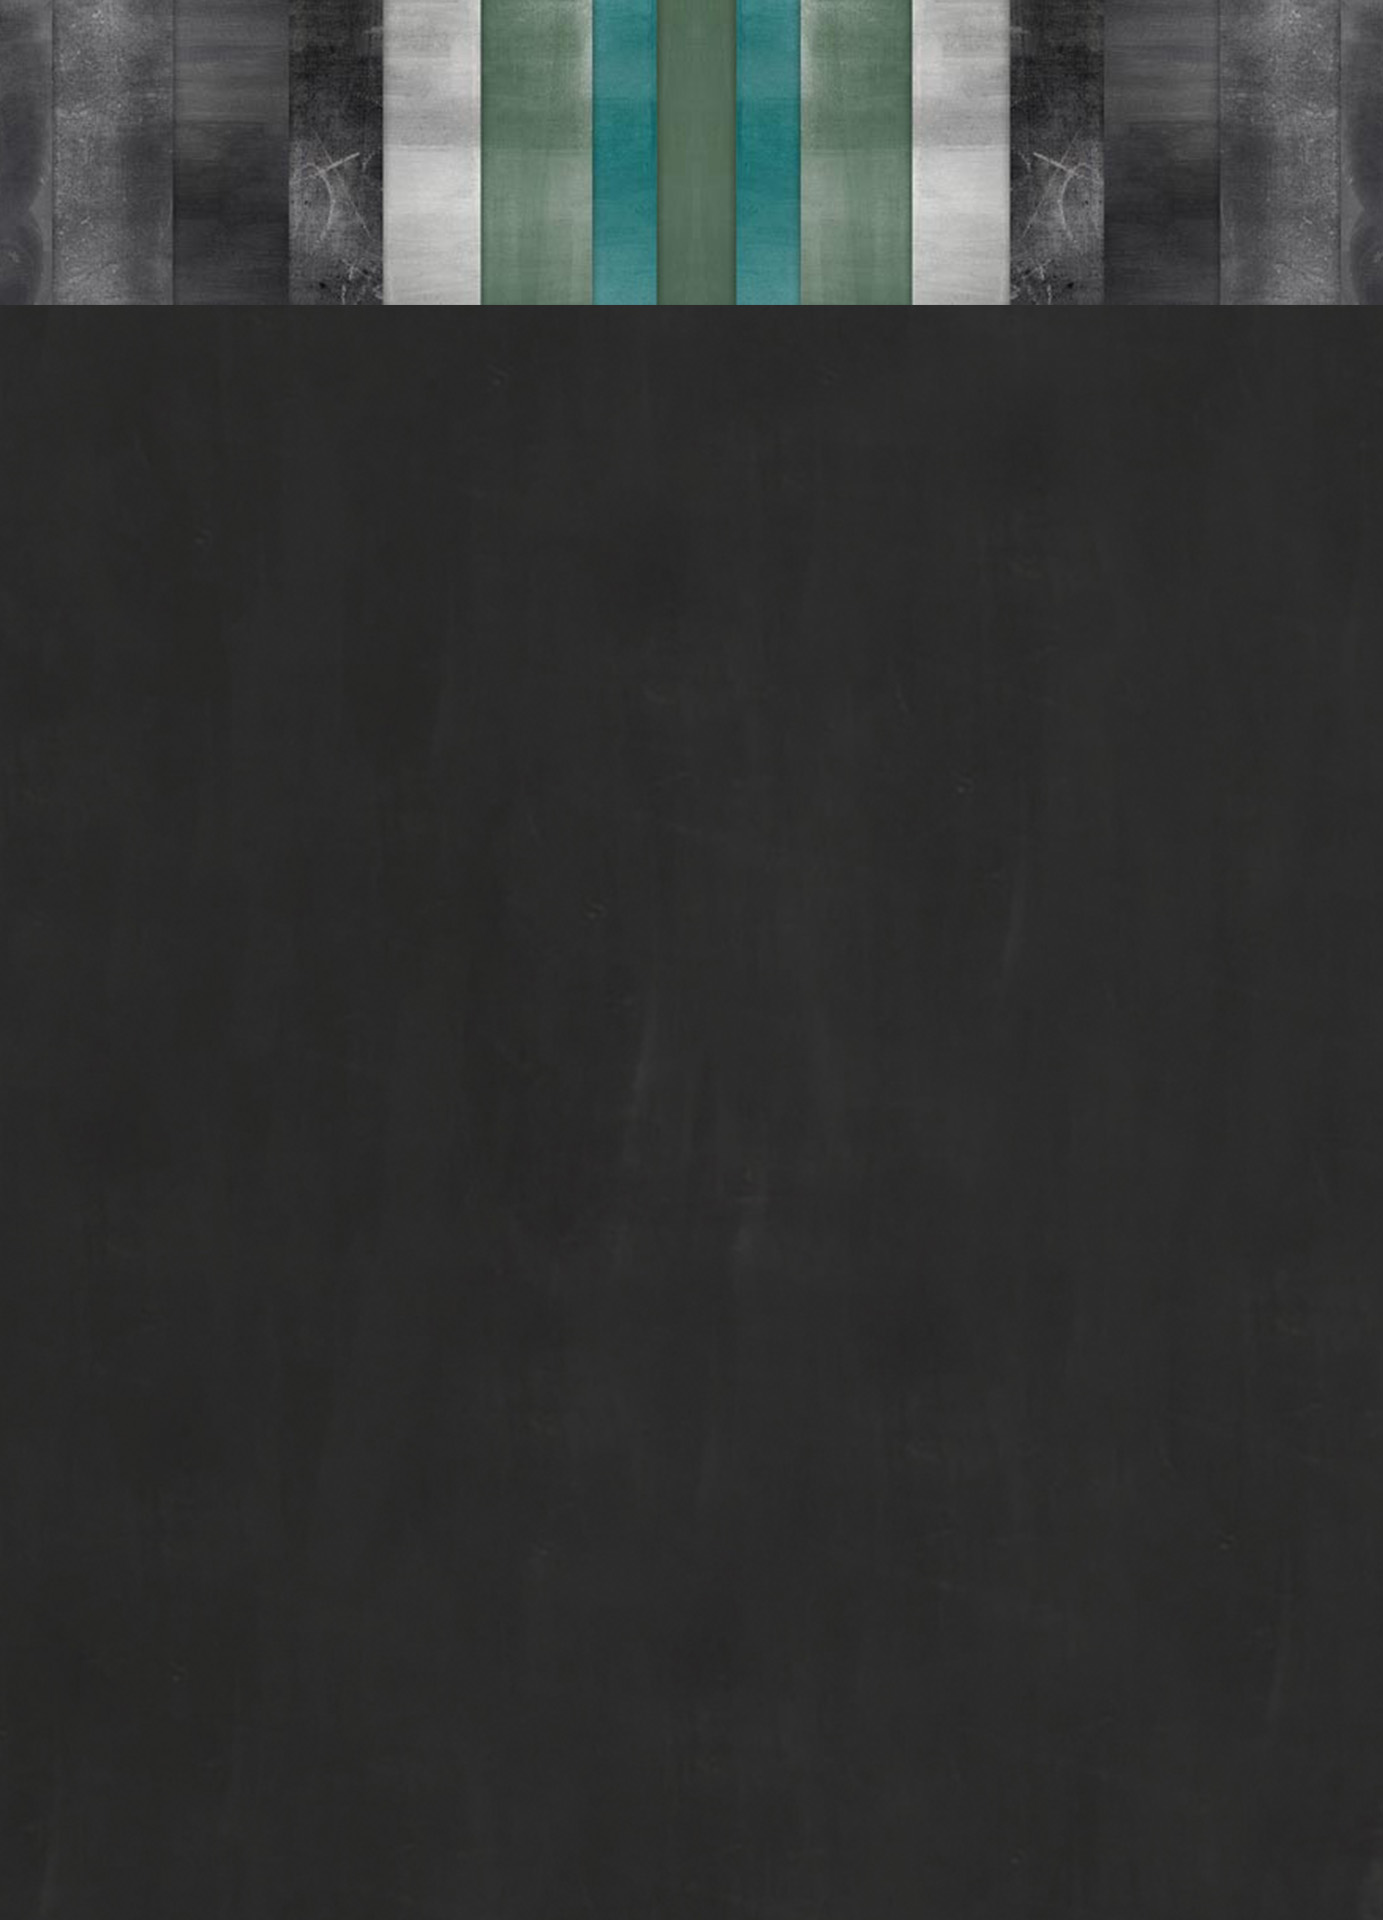
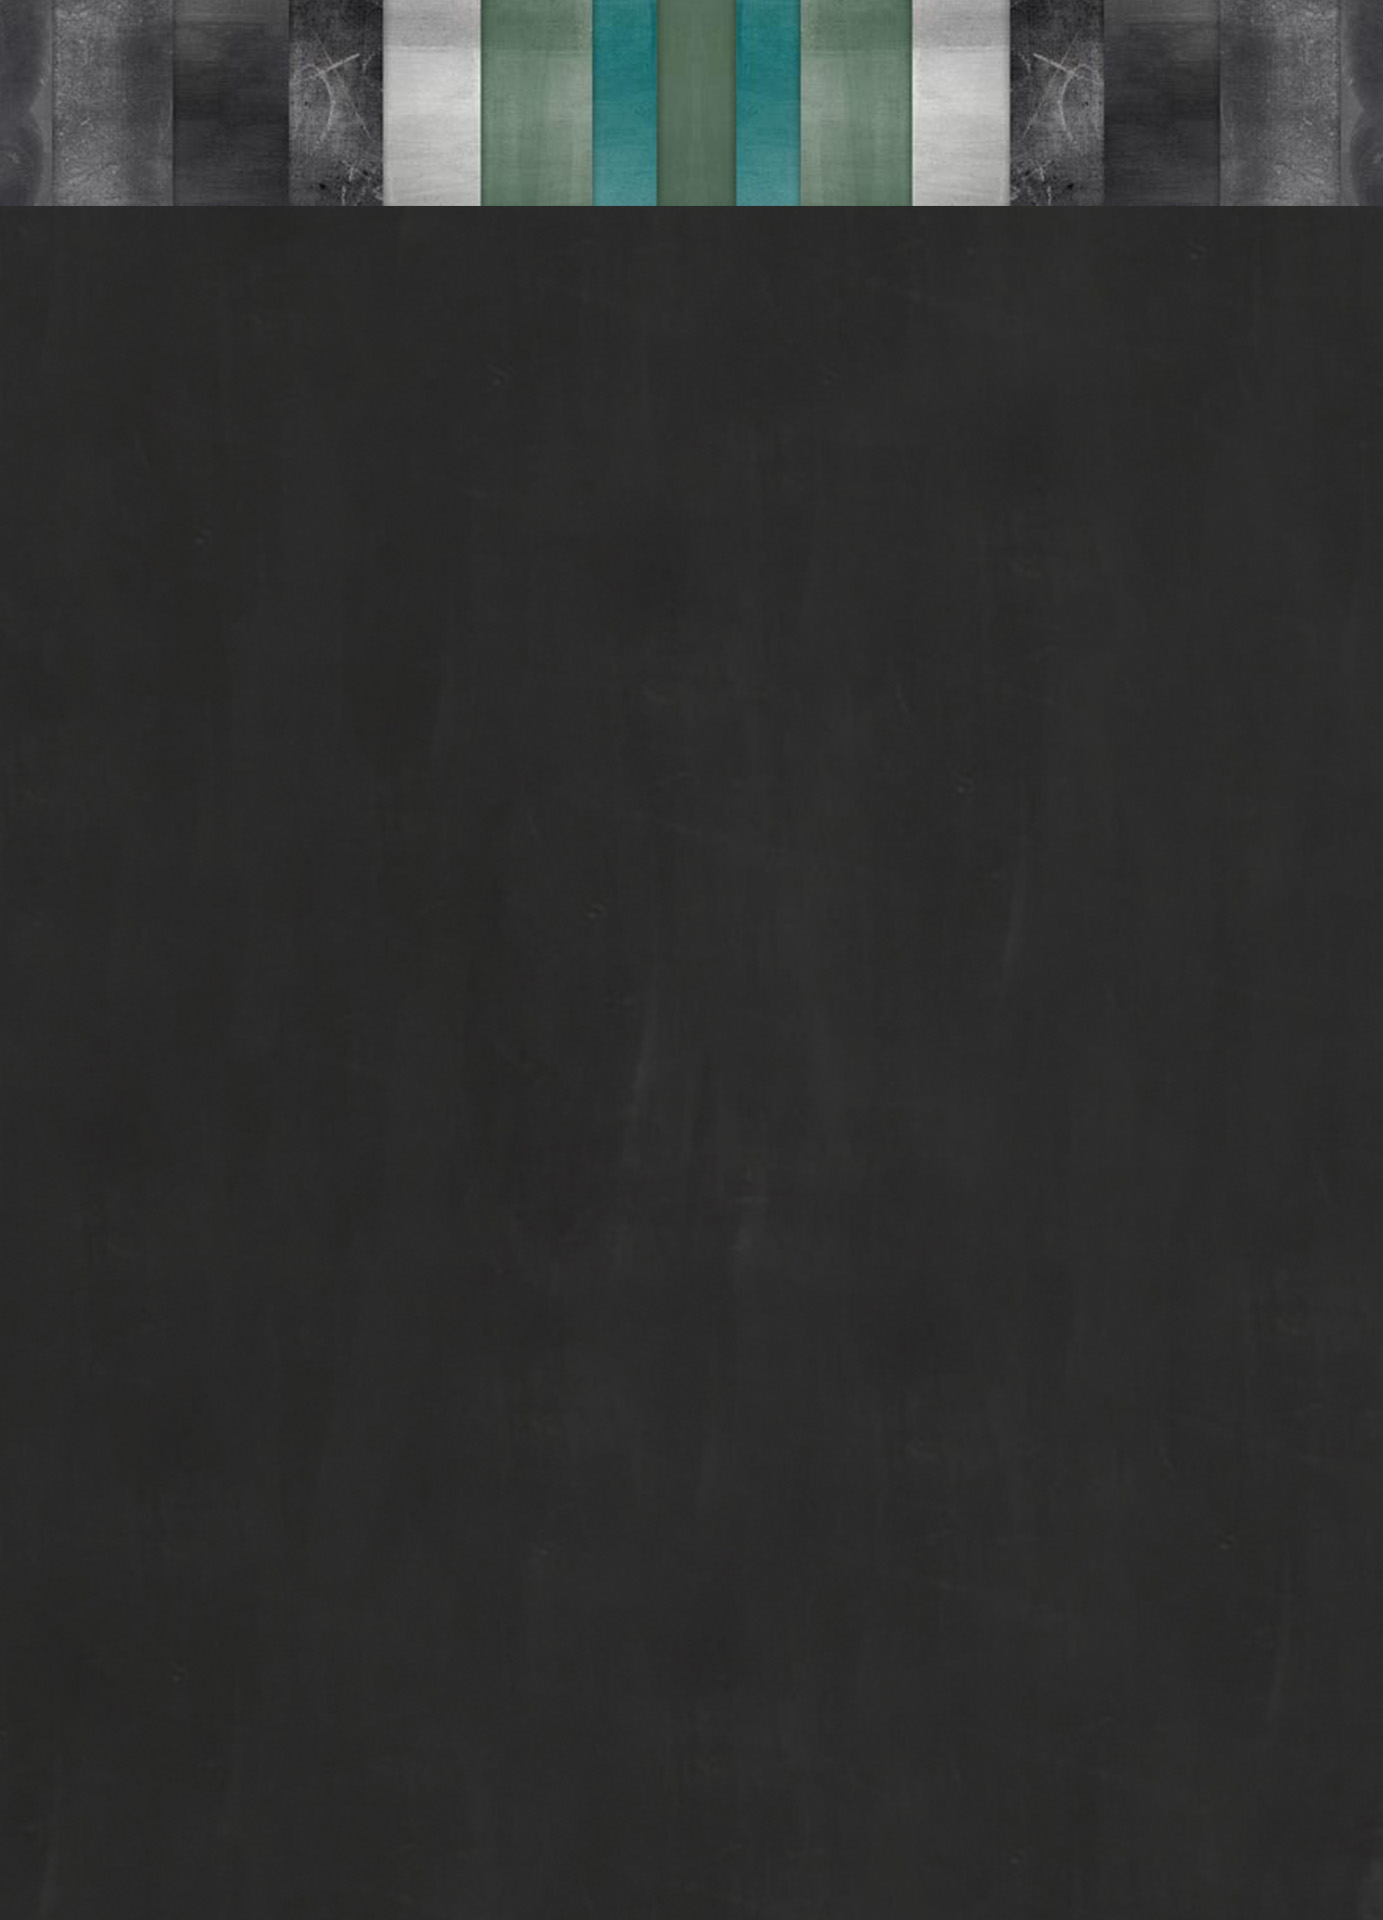
Got background working

Changed region(s): [[0.0, 0.0, 1.0, 0.1562], [0.9638, 0.0, 1.0, 0.0312], [0.0, 0.0, 0.0311, 0.0312]]

diff --git a/Minion.css b/Minion.css
@@ -1,6 +1,9 @@
 body {
-background-image: url("/Users/KTZ/Documents/School/Spring 2016/ART 229-Design For The Web/2016-02-28-Minion-The-Dog/Images/background.jpg");
+background-image: url("/Users/KTZ/Documents/School/Spring 2016/ART 229-Design For The Web/2016-02-28-Minion-The-Dog/Images/background-2.jpg");
 background-repeat: no-repeat;
+
+width: 100%;
+
 }
 
 div {
@@ -27,7 +30,7 @@ div {
 .sidebar {
    background-color: red;
    width: 10%;
-   height: 1920px;
+   height: 1800px;
 }
 
 .footer {

diff --git a/index.html b/index.html
@@ -4,7 +4,7 @@
     <title> Minion The Dog </title>
       <link rel="stylesheet" type="text/css" href="Minion.css"/>
   </head>
-  <body background="images/background.jpg">
+  <body background="/Users/KTZ/Documents/School/Spring 2016/ART 229-Design For The Web/2016-02-28-Minion-The-Dog/Images/background-2.jpg">
 
     <div class="header"> Minion The Dog </div>
 
